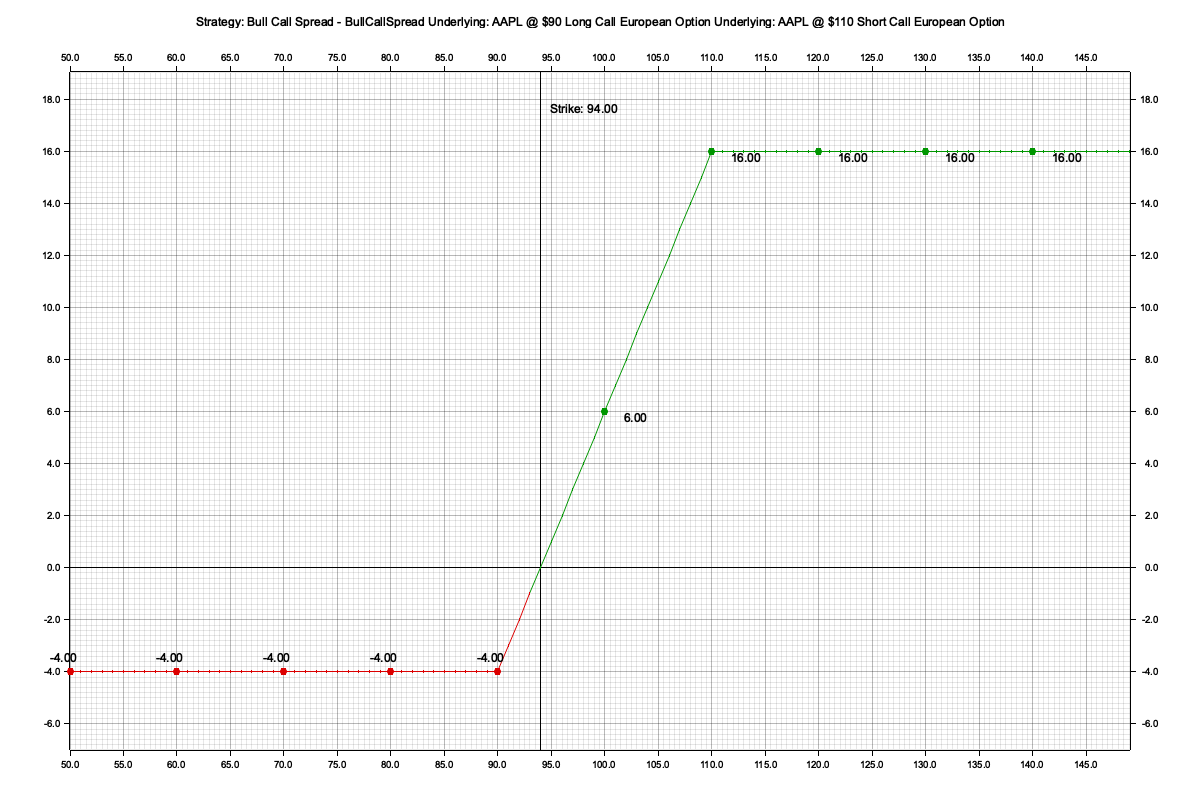
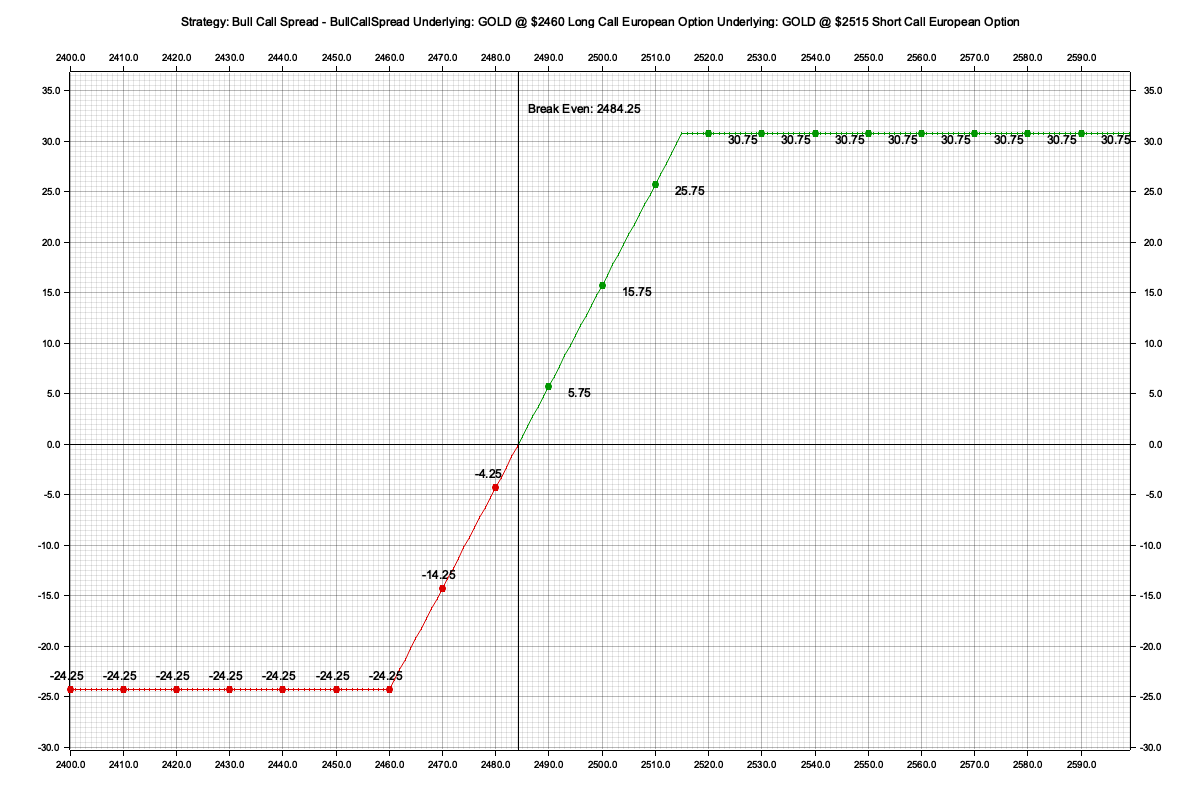
Update labels and options for strategy graph
Renamed the "Strike" label to "Break Even" in strategy/base.rs for clarity. Modified strategy_graph.rs to update the underlying option asset from "AAPL" to "GOLD" and adjusted the strike prices and premiums accordingly. This ensures the graph accurately reflects the new asset and price range for better analysis.

Changed region(s): [[0.0308, 0.0625, 0.9867, 0.9688], [0.1542, 0.0, 0.8633, 0.0312]]

diff --git a/examples/strategy_graph.rs b/examples/strategy_graph.rs
@@ -25,7 +25,7 @@ fn create_sample_option(
     Options::new(
         OptionType::European,
         side,
-        "AAPL".to_string(),
+        "GOLD".to_string(),
         strike,
         ExpirationDate::DateTime(Utc.from_utc_datetime(&naive_date)),
         0.2,
@@ -39,19 +39,19 @@ fn create_sample_option(
 }
 fn main() -> Result<(), Box<dyn Error>> {
     let position_long_call = Position::new(
-        create_sample_option(OptionStyle::Call, Side::Long, 100.0, 90.0, 1),
-        5.71,
+        create_sample_option(OptionStyle::Call, Side::Long, 2505.8, 2460.0, 1),
+        27.26,
         Utc::now(),
-        1.0,
-        1.0,
+        0.58,
+        0.58,
     );
 
     let position_short_call = Position::new(
-        create_sample_option(OptionStyle::Call, Side::Short, 100.0, 110.0, 1),
-        5.71,
+        create_sample_option(OptionStyle::Call, Side::Short, 2505.8, 2515.0, 1),
+        5.33,
         Utc::now(),
-        1.0,
-        1.0,
+        0.58,
+        0.58,
     );
 
     let mut strategy = Strategy::new(
@@ -67,7 +67,7 @@ fn main() -> Result<(), Box<dyn Error>> {
     println!("Title: {}", strategy.title());
     println!("Break Even {}", strategy.break_even());
     // Define a range of prices for the graph
-    let price_range: Vec<f64> = (50..150).map(|x| x as f64).collect();
+    let price_range: Vec<f64> = (2400..2600).map(|x| x as f64).collect();
 
     // Generate the intrinsic value graph
     strategy.graph(&price_range, "Draws/Strategy/intrinsic_value_chart.png")?;

diff --git a/src/strategies/base.rs b/src/strategies/base.rs
@@ -211,7 +211,7 @@ impl Graph for Strategy {
             &|coord, _size, _style| {
                 EmptyElement::at(coord)
                     + Text::new(
-                        format!("Strike: {:.2}", break_even),
+                        format!("Break Even: {:.2}", break_even),
                         break_even_label_position, // Position the text just above the top of the line
                         ("sans-serif", 15).into_font(),
                     )
